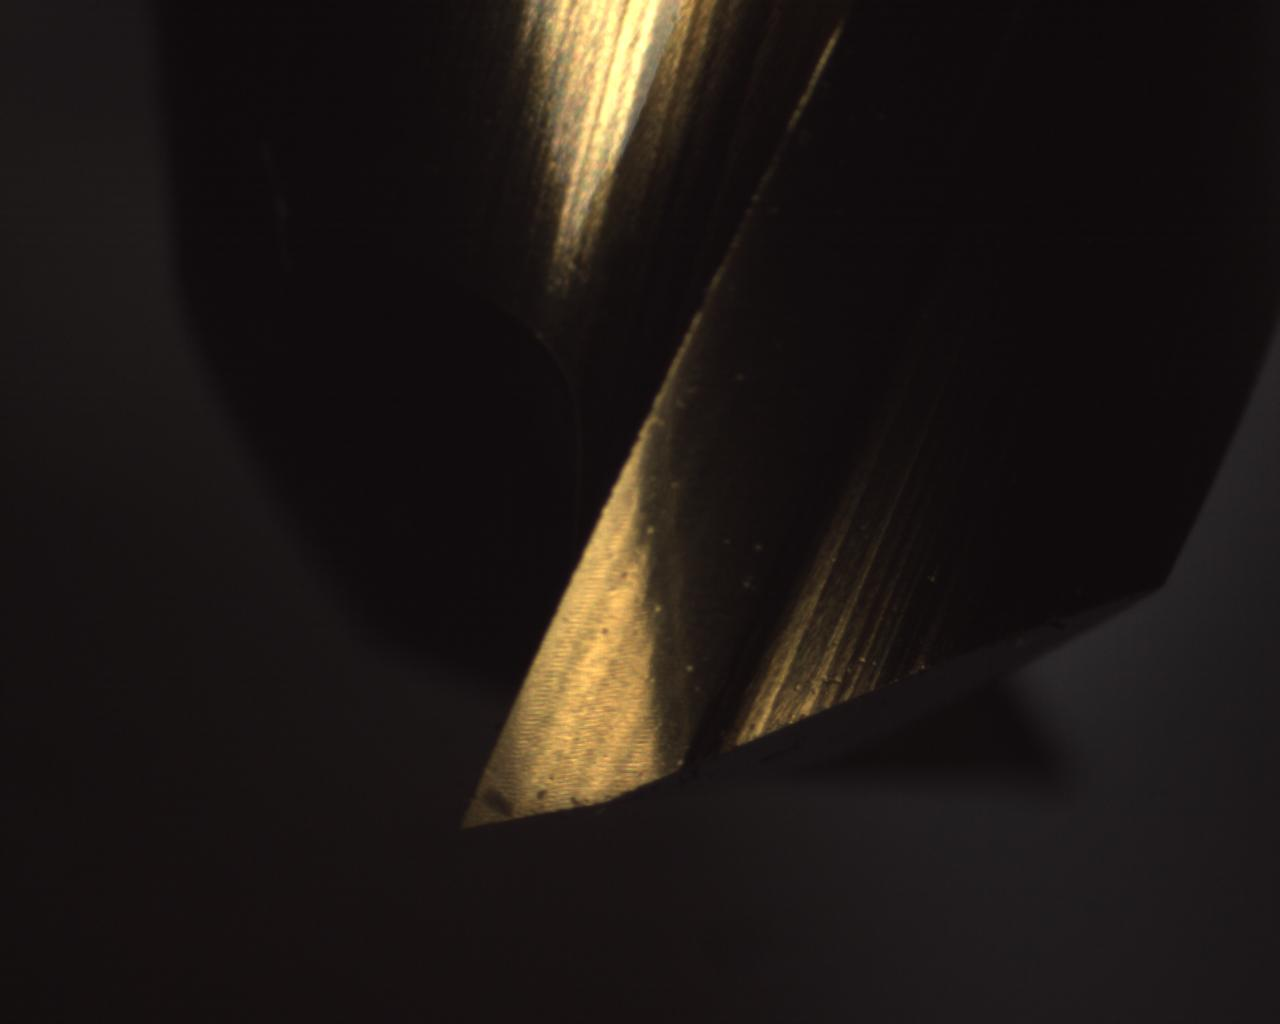
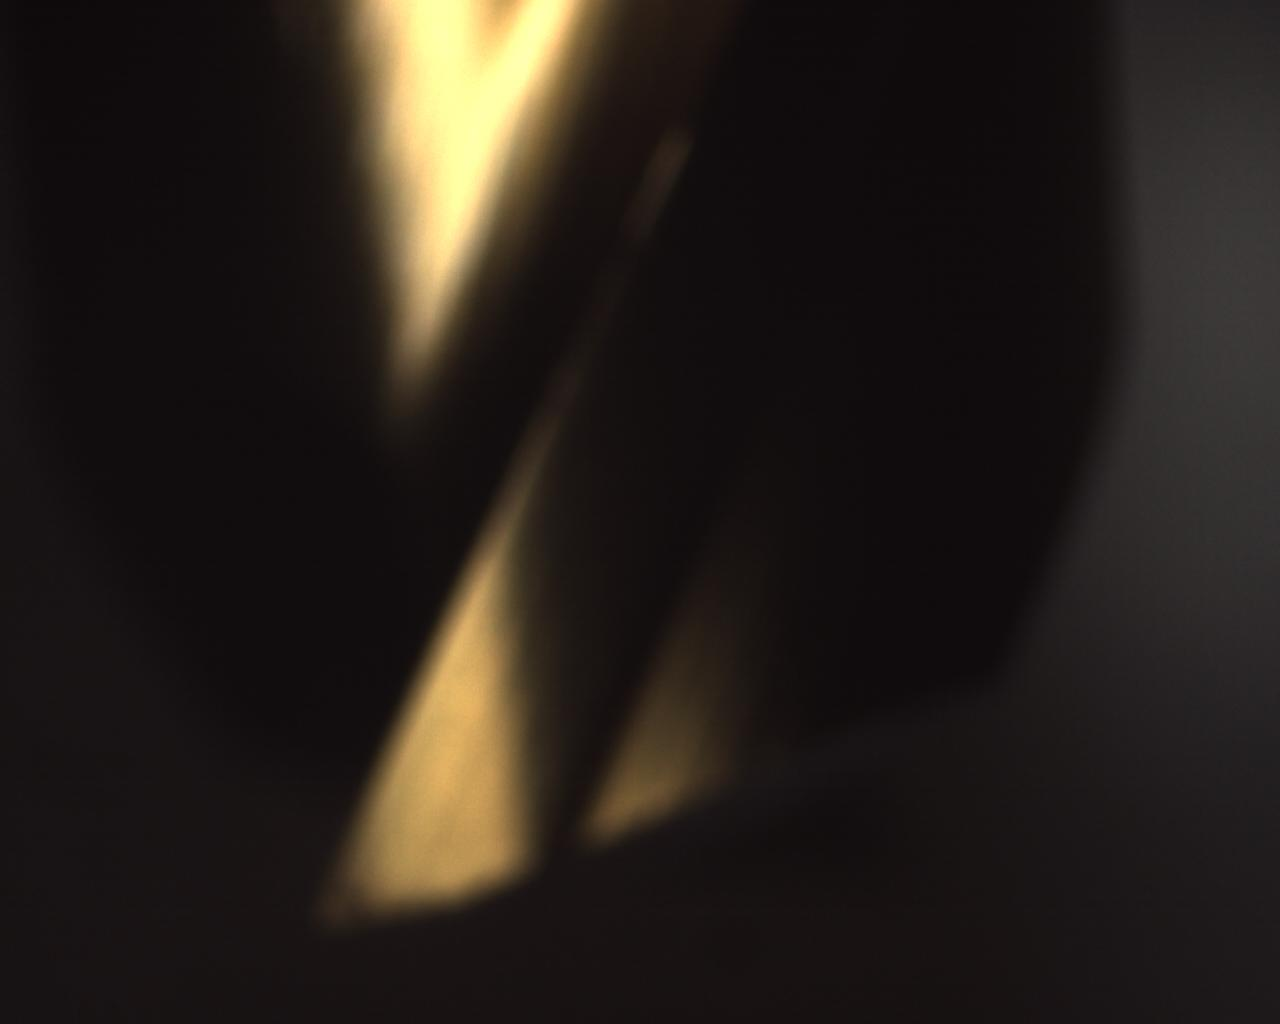
add brain focus mode

diff --git a/core/mainwindow.py b/core/mainwindow.py
@@ -38,6 +38,53 @@ def converte_pixmap2array(dispBuffer):
     return BGR_image
 
 
+class Thread_slect_focus(QThread):
+
+    def __init__(self, send_thread_handle, parent=None):
+        QThread.__init__(self, parent)
+        self.send_thread = send_thread_handle
+        self.image_arr = None
+        self.laplacian = None
+
+    def run(self):
+        # while i < 20:
+        step = 15
+        self.send_thread.motion_step = [-20]
+        self.send_thread.start()
+        self.send_thread.wait()
+        cnt = 0
+        tmp = 0
+        best_locate = 0
+        while cnt < 15:
+            cnt = cnt + 1
+            self.send_thread.motion_step = [1]
+            self.send_thread.start()
+            self.send_thread.wait()
+            if cnt == 1:
+                tmp = self.laplacian
+                continue
+
+            if self.laplacian > tmp:
+                tmp = self.laplacian
+                best_locate = cnt
+
+            if self.laplacian < tmp:
+                self.send_thread.motion_step = [-1]
+                self.send_thread.start()
+                self.send_thread.wait()
+                print(cnt)
+                break
+
+            time.sleep(0.1)
+
+    def ttt(self, pixmap):
+        self.image_arr = converte_pixmap2array(pixmap)
+
+    def get_laplacin_value(self, image, laplacian):
+        print(laplacian)
+        self.laplacian = laplacian
+
+
 class Thread_wait_forController(QThread):
     lnc_signal = pyqtSignal(int)
     laplacian_signal = pyqtSignal(object, object)
@@ -59,14 +106,13 @@ class Thread_wait_forController(QThread):
             f = open(f'{self.folder}/data.txt', 'w')
             f.write(f"{self.motion_step[i]}")
             f.close()
-            # print(self.Laplacina(self.image_arr))
             while True:
                 if os.path.isfile(f'{self.folder}/END'):
                     os.remove(f'{self.folder}/END')
                     self.laplacian_signal.emit(self.image_arr, self.Laplacina(self.image_arr))
                     break
-                time.sleep(0.1)
-            time.sleep(0.1)
+                time.sleep(0.5)
+            time.sleep(1)
             i += 1
 
     def motion(self, motion1: list):
@@ -159,7 +205,12 @@ class MainWindow(QMainWindow):
         
         self.test = Thread_wait_forController("C:/Users/smpss/kmol/Pyquino")
         self.test_pixmap.connect(self.test.ttt)
-        self.test.laplacian_signal.connect(self.gogo_run)
+
+        self.brain_focus = Thread_slect_focus(self.test)
+        self.test_pixmap.connect(self.brain_focus.ttt)
+
+        self.test.laplacian_signal.connect(self.brain_focus.get_laplacin_value)
+        # self.test.laplacian_signal.connect(self.gogo_run)
         self.count = 0
 
         try:
@@ -172,6 +223,9 @@ class MainWindow(QMainWindow):
 
         # Connect the display signal handler to our filter.
         # self.image1
+
+    def finff(self):
+        print("finished")
 
     def __init_setting(self):
         # Load IC Imaging Control .NET
@@ -215,19 +269,30 @@ class MainWindow(QMainWindow):
     
     @pyqtSlot()
     def on_automode_btn_clicked(self):
-        motion = [1.0] * 26
-        motion[0] = -25.0
-        self.test.motion_step = motion
-        self.test.start()
-        
+        self.brain_focus.start()
+        # motion = [1.0] * 26
+        # motion[0] = -25.0
+        # self.test.motion_step = [-5]
+        # self.test.start()
+        # self.test.wait()
+        # for i in [1, 1, 1, 1, 1]:
+        #     self.test.motion_step = [i]
+        #     self.test.start()
+        #     self.test.wait()
+
     def gogo_run(self, image, laplacian_value):
         # test func
-        f = open("clear_fy.txt", "a+")
-        f.write(f"{laplacian_value}\n")
-        f.close()
-        cv2.imwrite(f"tmp_img/{self.count}.jpg", image)
-        self.laplacian_label.setText(f"{laplacian_value}")
-        self.count += 1
+        print(laplacian_value)
+        # f = open("clear_fy.txt", "a+")
+        # f.write(f"{laplacian_value}\n")
+        # f.close()
+        # cv2.imwrite(f"tmp_img/{self.count}.jpg", image)
+        # self.laplacian_label.setText(f"{laplacian_value}")
+        # self.count += 1
+
+    @pyqtSlot()
+    def on_test_focus_btn_clicked(self):
+        print("test")
 
     def SnapImage(self):
         '''
